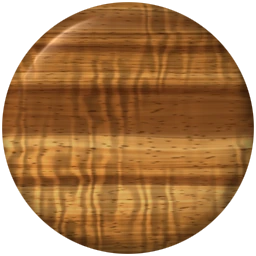
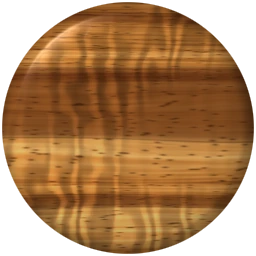
Kōnane: four cuts of koa per colour mixed over the stones; Historia map closer still on small routes
Claude-Session: https://claude.ai/code/session_019p8B6Vvh3jun26Ko2A6wjZ

diff --git a/atlas/historia.js b/atlas/historia.js
@@ -500,7 +500,7 @@
         // the pins fill the box less a margin for their labels (labels keep their screen size: ~14 units tall, up to ~90 wide)
         const aw = Math.max(V.w * .3, Math.min(V.w * .62, V.w - 170)), ah = Math.max(V.h * .25, Math.min(V.h * .58, V.h - 72));
         return { z: Math.min(aw / Math.max(1, x1 - x0), ah / Math.max(1, y1 - y0)), cx: (x0 + x1) / 2, cy: (y0 + y1) / 2 }; };
-      const zMax = Math.max(V.w / 42, zb[2] * 1.6), zMin = V.w / 360;   // at most ~42° of the world across the box (or a little closer than the opening framing) (some coastline around); at least the whole width
+      const zMax = Math.max(V.w / 42, zb[2] * 2.2), zMin = V.w / 360;   // at most ~42° of the world across the box (or a little closer than the opening framing) (some coastline around); at least the whole width
       let f = fitIn(ids); if (ids.length > 1 && f.z < zMax * .3) f = fitIn([cur]);   // the neighbours are far apart: the active pin alone
       const z = Math.max(zMin, Math.min(zMax, f.z));
       let tx = V.x + V.w / 2 - f.cx * z, ty = V.y + V.h / 2 - f.cy * z;
@@ -629,7 +629,7 @@
     // zoom to the pins (with a margin), keeping the frame 16:10
     let x0 = Math.min(...P.map(p => p[0])), x1 = Math.max(...P.map(p => p[0])), y0 = Math.min(...P.map(p => p[1])), y1 = Math.max(...P.map(p => p[1]));
     const W0 = 360, H0 = 128.5;   // full map 180°W–180°E × 72.5°N–56°S
-    let w = Math.max(30, (x1 - x0) * 1.5 + 16), h = Math.max(19, (y1 - y0) * 1.5 + 14);   // (a small route, e.g. one island chain: closer, 2026-11-06) if (w / h > 1.6) h = w / 1.6; else w = h * 1.6;
+    let w = Math.max(16, (x1 - x0) * 1.35 + 8), h = Math.max(10, (y1 - y0) * 1.35 + 8);   // (a small route, e.g. one island chain: closer, 2026-11-06) if (w / h > 1.6) h = w / 1.6; else w = h * 1.6;
     w = Math.min(w, W0); h = w / 1.6;   // the frame stays 16:10, even when it is taller than the map itself
     let cx = (x0 + x1) / 2, cy = (y0 + y1) / 2; cx = Math.max(w / 2, Math.min(W0 - w / 2, cx));
     if (h >= H0) cy = (cy + H0 / 2) / 2;   // taller than the map: lean towards the pins instead of leaving them at the edge

diff --git a/konane/index.html b/konane/index.html
@@ -843,7 +843,11 @@ html[data-pcs=stone]{--pcB:url(img/pc-stone-b.webp);--pcW:url(img/pc-stone-w.web
 html[data-pcs=glass]{--pcB:url(img/pc-glass-b.webp);--pcW:url(img/pc-glass-w.webp)}
 html[data-pcs=matte]{--pcB:url(img/pc-matte-b.webp);--pcW:url(img/pc-matte-w.webp)}
 html[data-pcs=pearl]{--pcB:url(img/pc-pearl-b.webp);--pcW:url(img/pc-pearl-w.webp)}
-html[data-pcs=koa]{--pcB:url(img/pc-koa-b.webp?v=3);--pcW:url(img/pc-koa-w.webp?v=3)}
+html[data-pcs=koa]{--pcB:url(img/pc-koa-b.webp?v=4);--pcW:url(img/pc-koa-w.webp?v=4)}
+/* koa: four cuts of the wood per colour, mixed over the stones so no two neighbours look alike */
+html[data-pcs=koa] .pieces .pc:nth-child(3n+2){--pcB:url(img/pc-koa-b-1.webp?v=1);--pcW:url(img/pc-koa-w-1.webp?v=1)}
+html[data-pcs=koa] .pieces .pc:nth-child(5n+3){--pcB:url(img/pc-koa-b-2.webp?v=1);--pcW:url(img/pc-koa-w-2.webp?v=1)}
+html[data-pcs=koa] .pieces .pc:nth-child(7n+4){--pcB:url(img/pc-koa-b-3.webp?v=1);--pcW:url(img/pc-koa-w-3.webp?v=1)}
 
 /* ---------------------------------------------------------------- new-game dialog: phone = one column, PC = two columns (same as Reversi) */
 #newOverlay .ng-cols{display:flex;flex-direction:column}

diff --git a/atlas/index.html b/atlas/index.html
@@ -1606,7 +1606,7 @@ window.AtlasRgdTimer = function (btn, ms, alive) {
 <script src="rules/mancala.js?v=2"></script>
 <script src="rules/dots.js?v=2"></script>
 <link rel="stylesheet" href="historia.css?v=14">
-<script src="historia.js?v=23"></script>
+<script src="historia.js?v=24"></script>
 <link rel="stylesheet" href="skin/loading.css?v=2">
 <script src="skin/loading.js?v=4"></script>
 <script src="gacha3d.js?v=7"></script>

diff --git a/konane/tools/gen_art_more.py b/konane/tools/gen_art_more.py
@@ -431,12 +431,16 @@ def koa_piece():
     rip = np.sin(ph)
     rip = np.sign(rip) * np.abs(rip) ** .7
     amt = np.clip(.55 + .45 * nz(60, 40), 0, 1)
-    for name, seed, cols in (('pc-koa-w.webp', 44, ('#e8b064', '#c07a34', '#6a3414', '#3a1a08')),
-                             ('pc-koa-b.webp', 45, ('#8a4a20', '#5e2a10', '#2c1206', '#1a0a03'))):
-        slab = koa_slab(N2, seed, *cols, grain=.7)
-        slab = slab * (1 + .2 * (rip * amt)[..., None])          # the chatoyant figure
-        im = _I.fromarray(np.clip(slab, 0, 255).astype(np.uint8)).resize((NP, NP), _I.LANCZOS)
-        alb = np.asarray(im).astype(float)
-        rp = np.asarray(_I.fromarray(((rip * amt * .5 + .5) * 255).astype(np.uint8)).resize((NP, NP), _I.LANCZOS)).astype(float) / 255
-        col = shade(gaussian_filter(h, .7) + (rp - .5) * .5, alb, gloss=80, spec=.38, amb=.62)
-        save_pc(col, name, .22)
+    # four discs of each colour, each cut from another part of the wood and turned another way (the page varies them per stone)
+    for name, seed, cols in (('pc-koa-w', 44, ('#e8b064', '#c07a34', '#6a3414', '#3a1a08')),
+                             ('pc-koa-b', 45, ('#8a4a20', '#5e2a10', '#2c1206', '#1a0a03'))):
+        for v, ang in enumerate((0, 37, 101, 143)):
+            slab = koa_slab(N2, seed + v * 10, *cols, grain=.7)
+            slab = slab * (1 + .2 * (np.roll(rip, v * 97, axis=1) * amt)[..., None])          # the chatoyant figure
+            im = _I.fromarray(np.clip(slab, 0, 255).astype(np.uint8)).rotate(ang, resample=_I.BICUBIC, expand=False)
+            c0 = N2 // 2 - int(N2 * .36); im = im.crop((c0, c0, N2 - c0, N2 - c0)).resize((NP, NP), _I.LANCZOS)   # (inside the turned square)
+            alb = np.asarray(im).astype(float)
+            rr_ = _I.fromarray(((np.roll(rip, v * 97, axis=1) * amt * .5 + .5) * 255).astype(np.uint8)).rotate(ang, resample=_I.BICUBIC).crop((c0, c0, N2 - c0, N2 - c0)).resize((NP, NP), _I.LANCZOS)
+            rp = np.asarray(rr_).astype(float) / 255
+            col = shade(gaussian_filter(h, .7) + (rp - .5) * .5, alb, gloss=80, spec=.38, amb=.62)
+            save_pc(col, name + ('.webp' if v == 0 else '-%d.webp' % v), .22)
